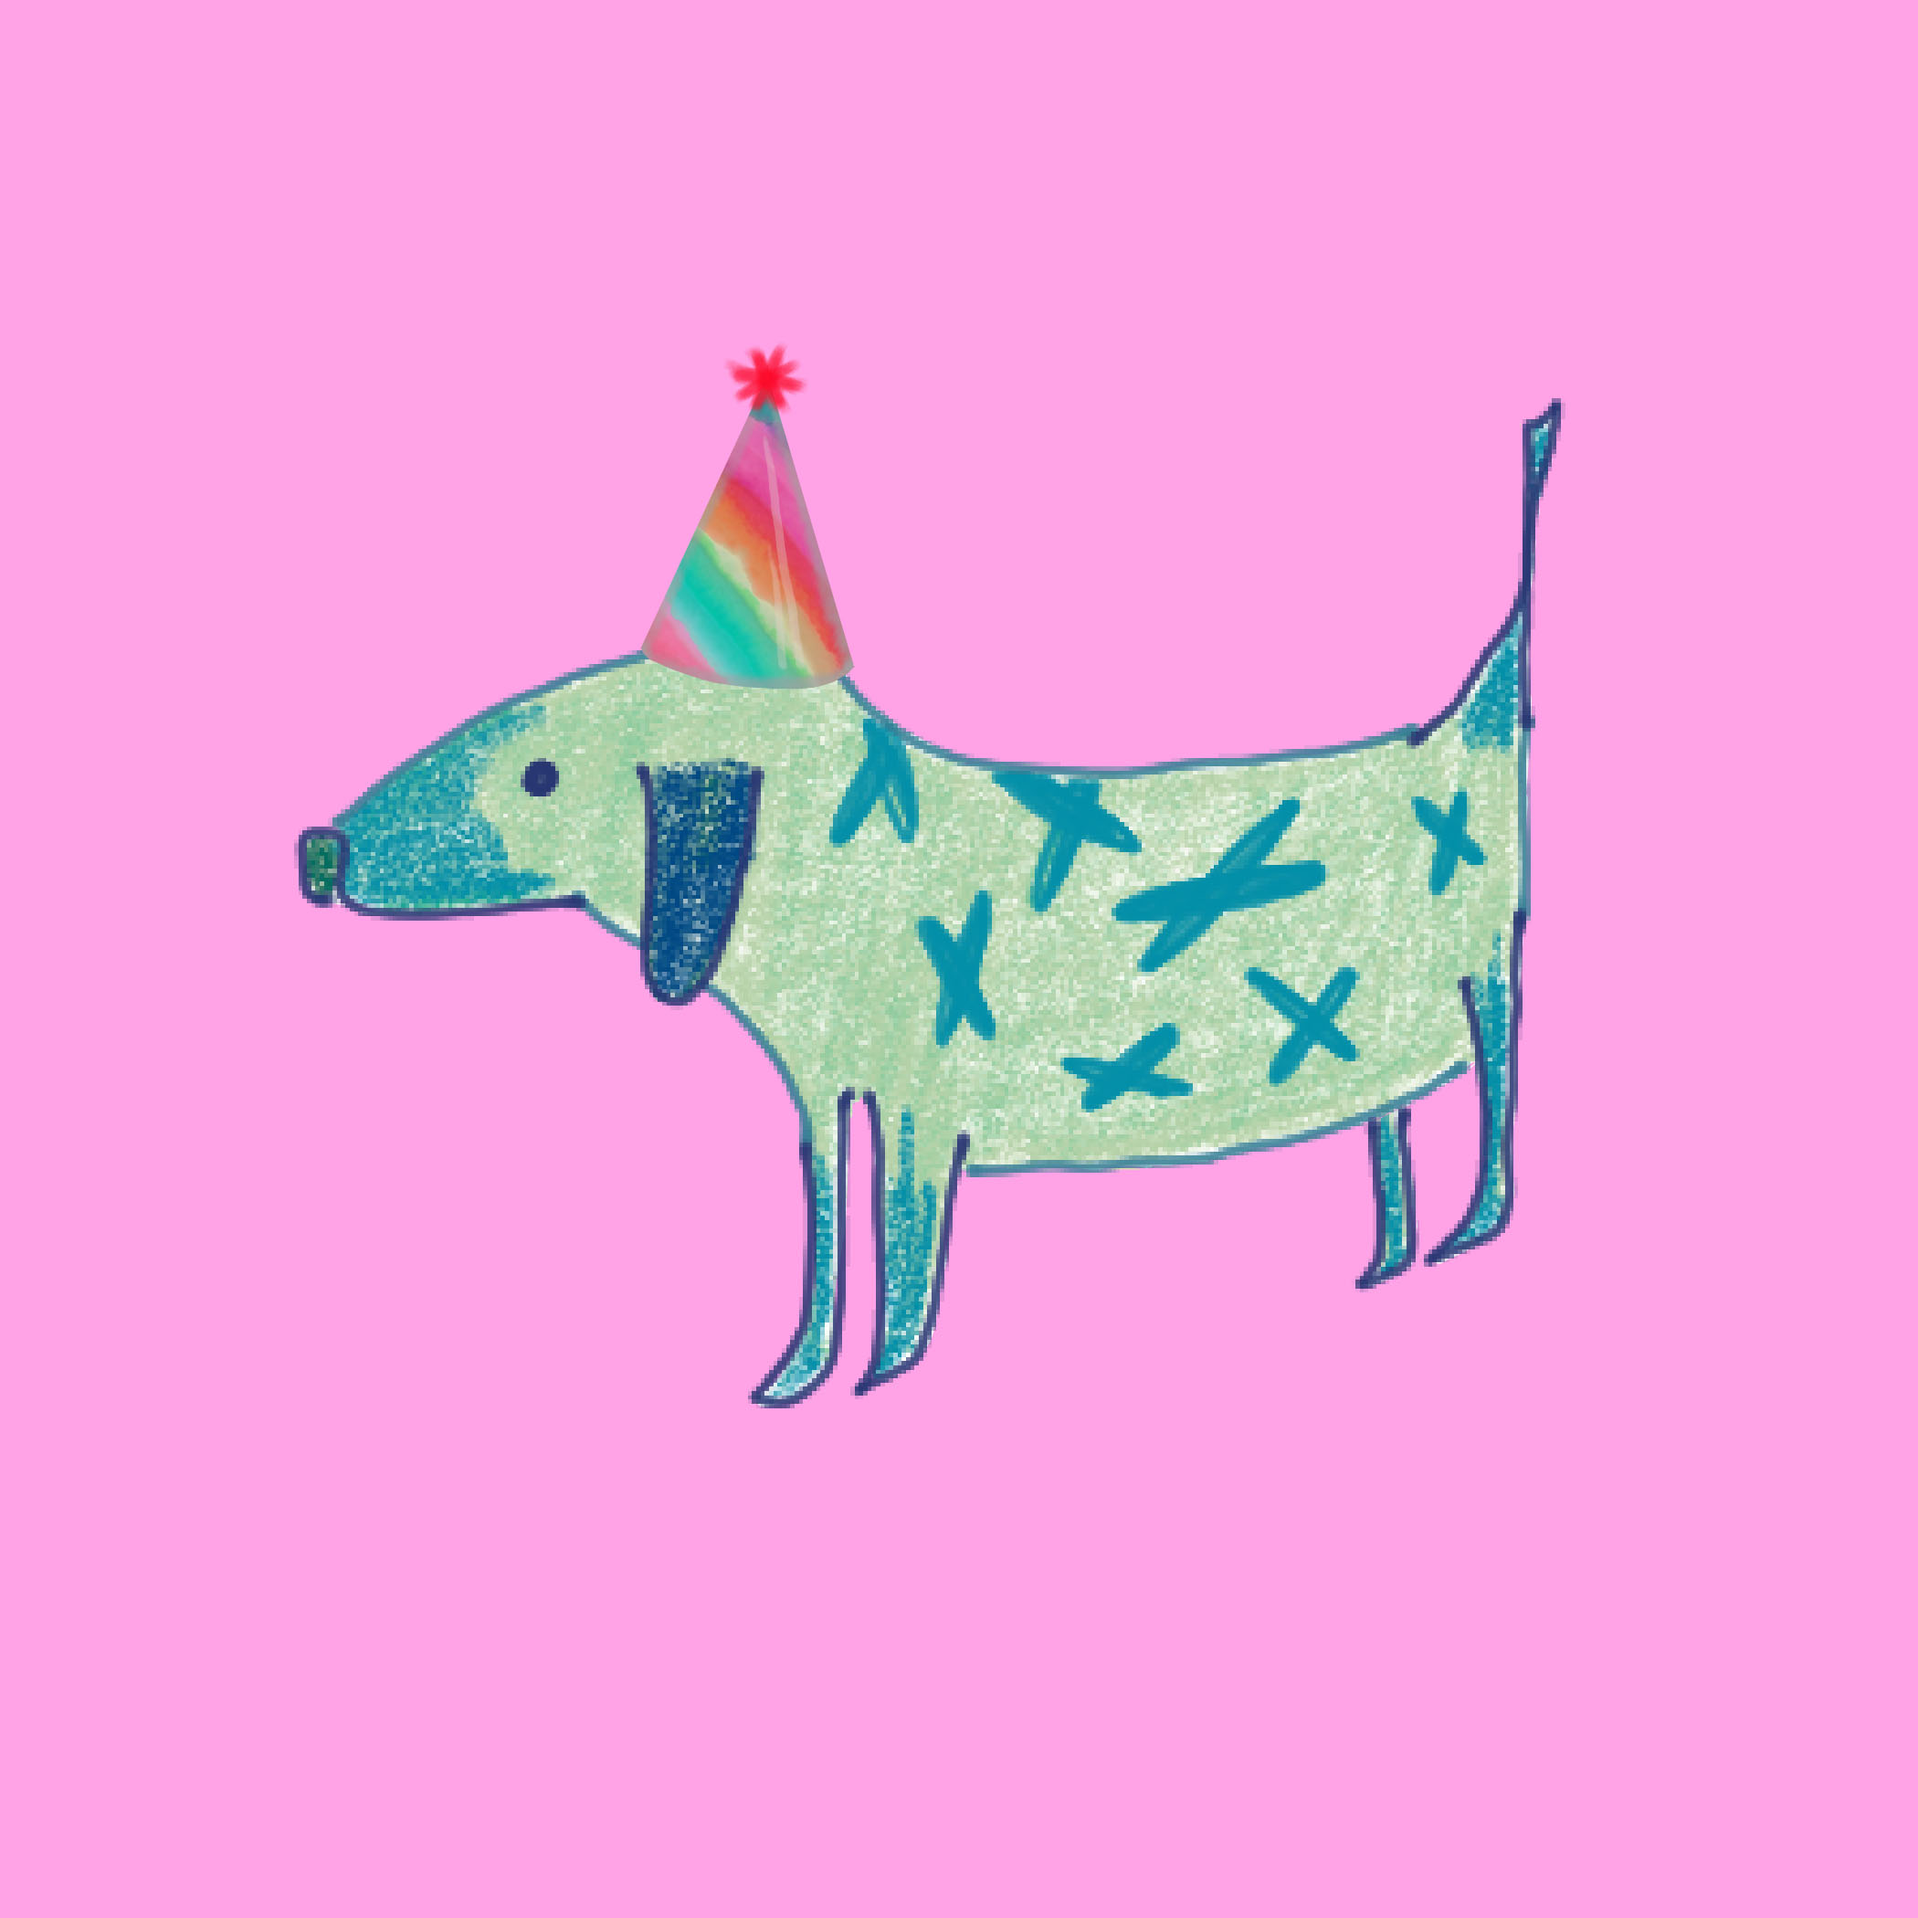
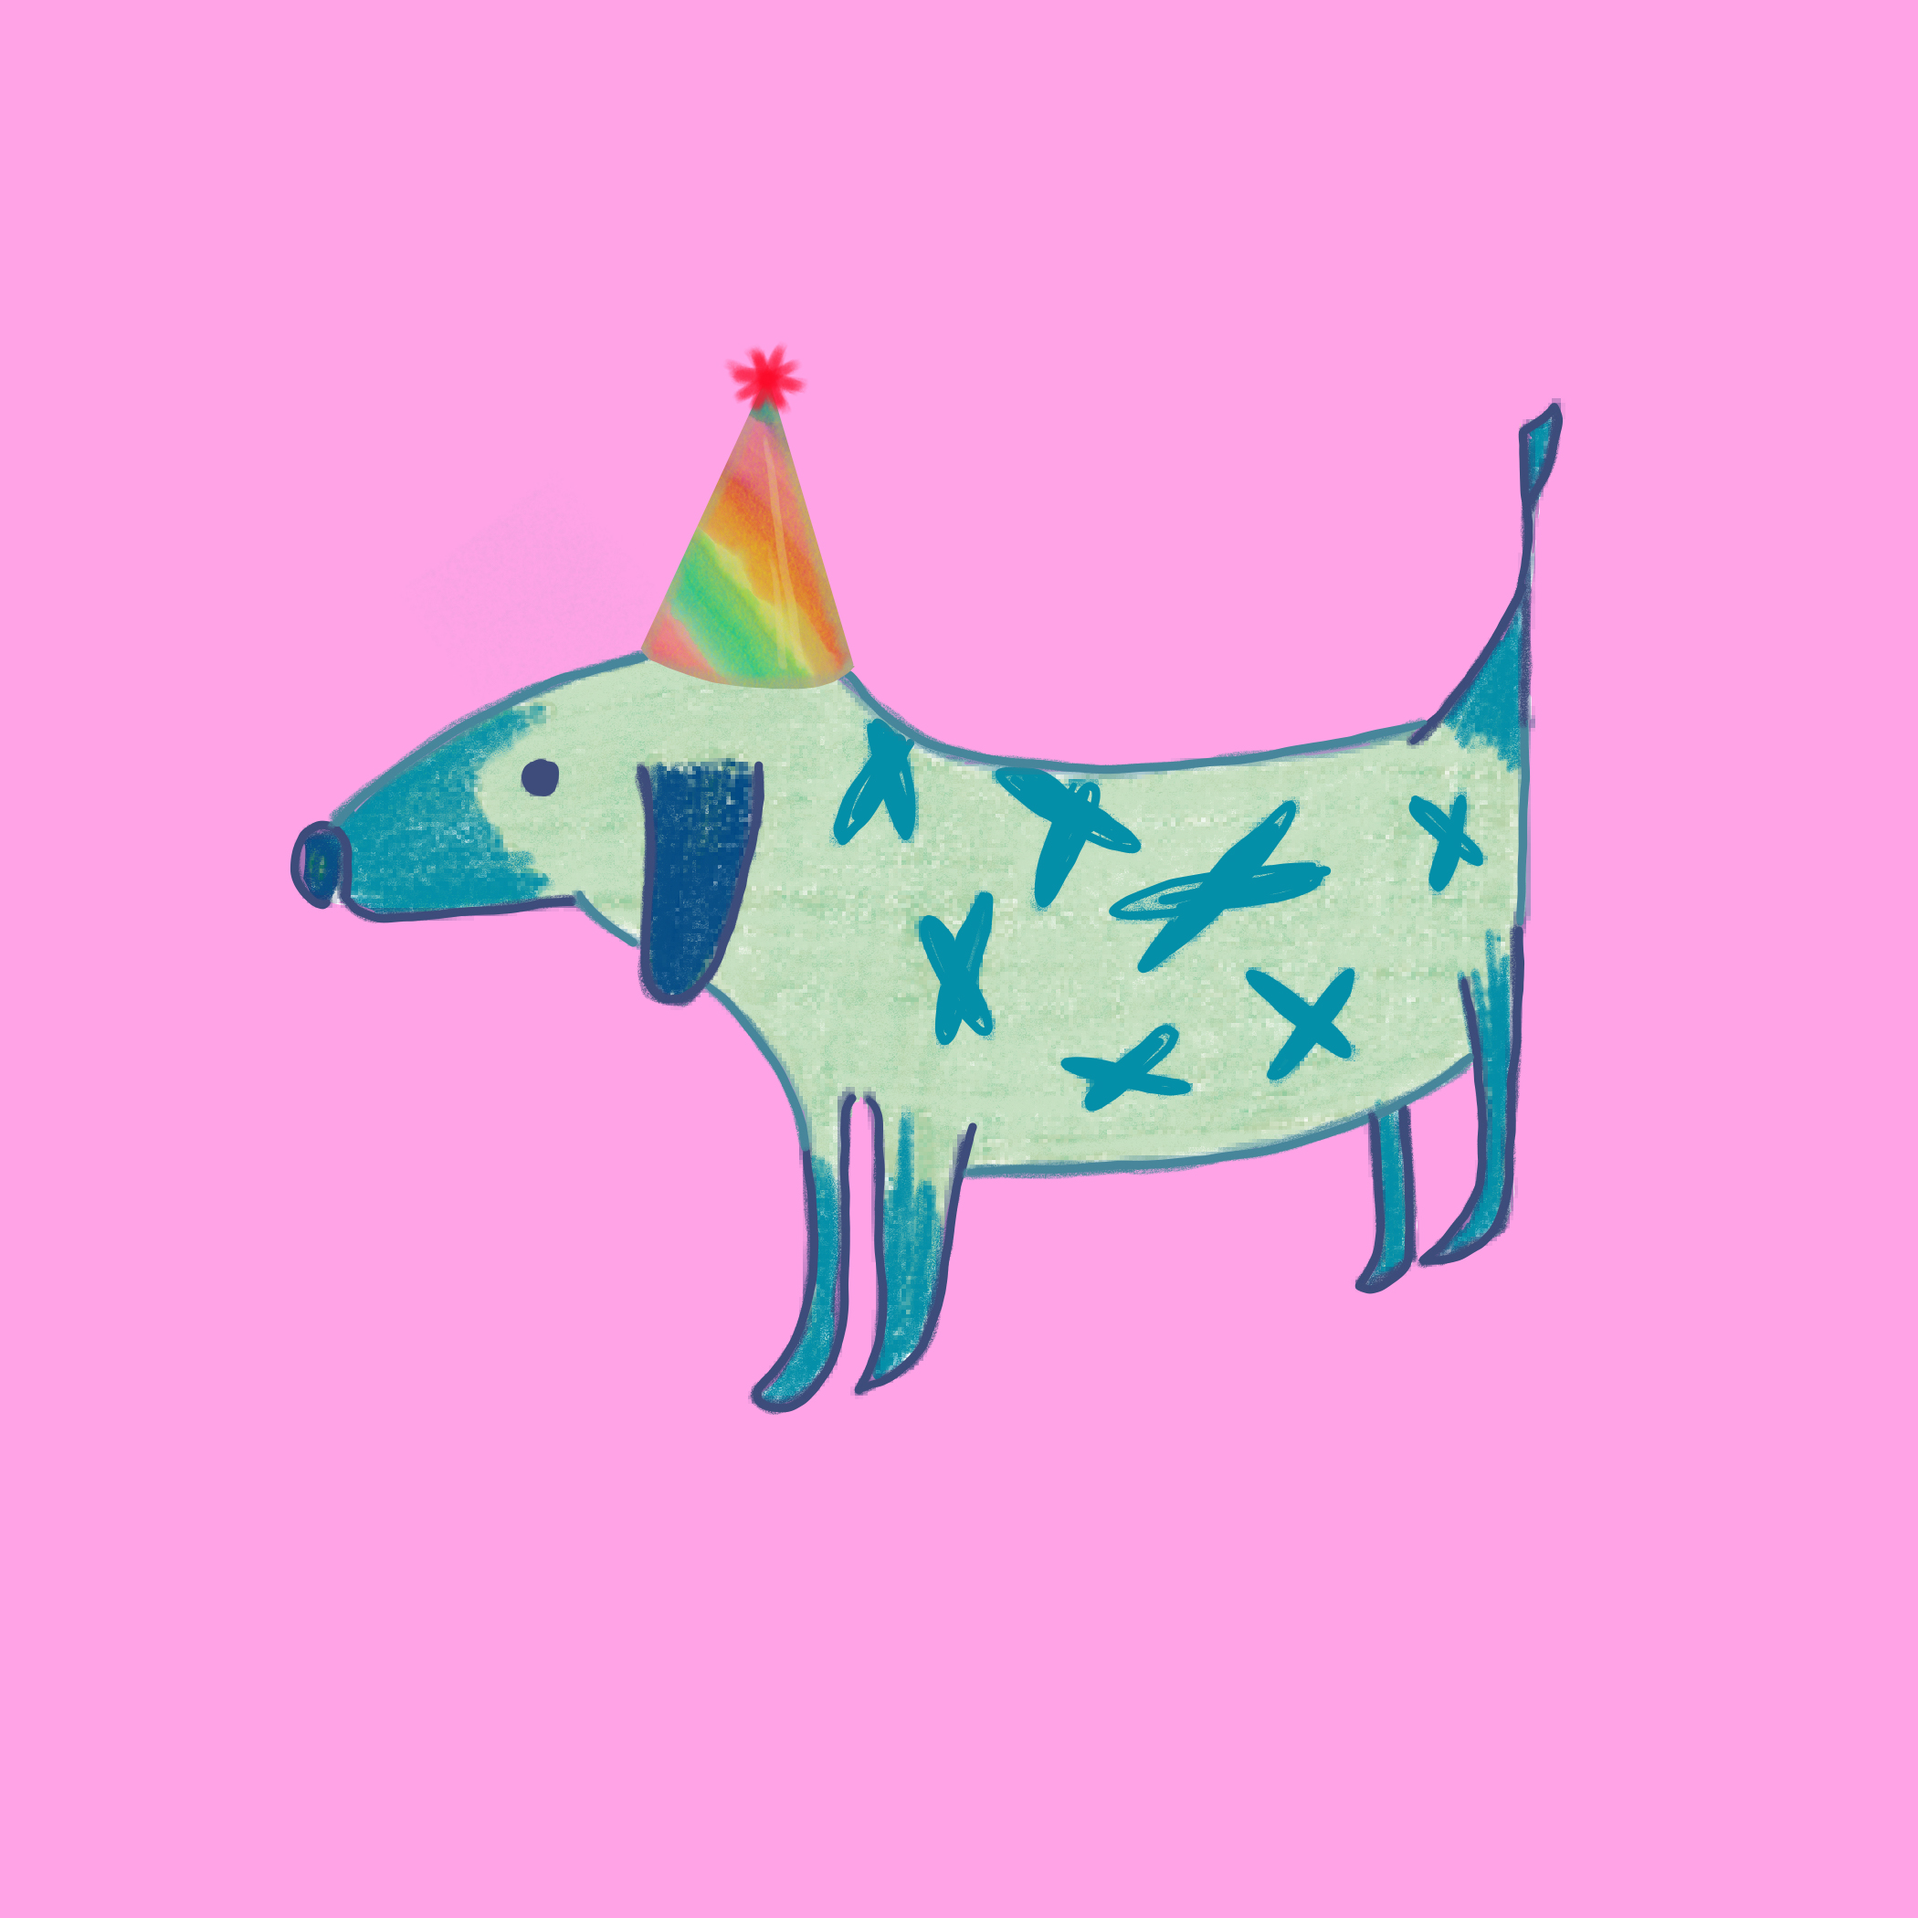
new illustrations

Changed region(s): [[0.1548, 0.2167, 0.8357, 0.7429]]

diff --git a/digitalillustrations.html b/digitalillustrations.html
@@ -59,6 +59,7 @@
 
         <section class="content">
           <div class="row">
+
             <div class="illustration-column">
               <div class="imgcontainer">
                 <a href="./images/art/illustrations/big_cats.jpg" data-fancybox="illuatrations">
@@ -84,15 +85,20 @@
                 <a href="./images/art/illustrations/tiger_pattern_mint.png" data-fancybox="illuatrations">
                  <img class="art-page-image" src="./images/art/illustrations/tiger_pattern_mint.png" alt="" /></a>
               </div>
+              <div class="imgcontainer">
+                <a href="./images/art/illustrations/itchy_dog.png" data-fancybox="illuatrations">
+                 <img class="art-page-image" src="./images/art/illustrations/itchy_dog.png" alt="" /></a>
+              </div>
             </div>
+
             <div class="illustration-column">
               <div class="imgcontainer">
                 <a href="./images/art/illustrations/seinfeld.jpg" data-fancybox="illuatrations">
                  <img class="art-page-image" src="./images/art/illustrations/seinfeld.jpg" alt="" /></a>
               </div>
               <div class="imgcontainer">
-                <a href="./images/art/illustrations/Bunbun.jpg" data-fancybox="illuatrations">
-                 <img class="art-page-image" src="./images/art/illustrations/Bunbun.jpg" alt="" /></a>
+                <a href="./images/art/illustrations/Bunbun.png" data-fancybox="illuatrations">
+                 <img class="art-page-image" src="./images/art/illustrations/Bunbun.png" alt="" /></a>
               </div>
               <div class="imgcontainer">
                 <a href="./images/art/illustrations/black_spotted_dog.png" data-fancybox="illuatrations">
@@ -119,14 +125,19 @@
                  <img class="art-page-image" src="./images/art/illustrations/Dog.PNG" alt="" /></a>
               </div>
             </div>
+
             <div class="illustration-column">
               <div class="imgcontainer">
-                <a href="./images/art/illustrations/purple_tiger_dog.jpg" data-fancybox="illuatrations">
-                 <img class="art-page-image" src="./images/art/illustrations/purple_tiger_dog.jpg" alt="" /></a>
+                <a href="./images/art/illustrations/purple_tiger_dog.png" data-fancybox="illuatrations">
+                 <img class="art-page-image" src="./images/art/illustrations/purple_tiger_dog.png" alt="" /></a>
               </div>
               <div class="imgcontainer">
                 <a href="./images/art/illustrations/tiger-cat.jpg" data-fancybox="illuatrations">
                  <img class="art-page-image" src="./images/art/illustrations/tiger-cat.jpg" alt="" /></a>
+              </div>
+              <div class="imgcontainer">
+                <a href="./images/art/illustrations/rat_dog.png" data-fancybox="illuatrations">
+                 <img class="art-page-image" src="./images/art/illustrations/rat_dog.png" alt="" /></a>
               </div>
               <div class="imgcontainer">
                 <a href="./images/art/illustrations/Fox2.PNG" data-fancybox="illuatrations">
